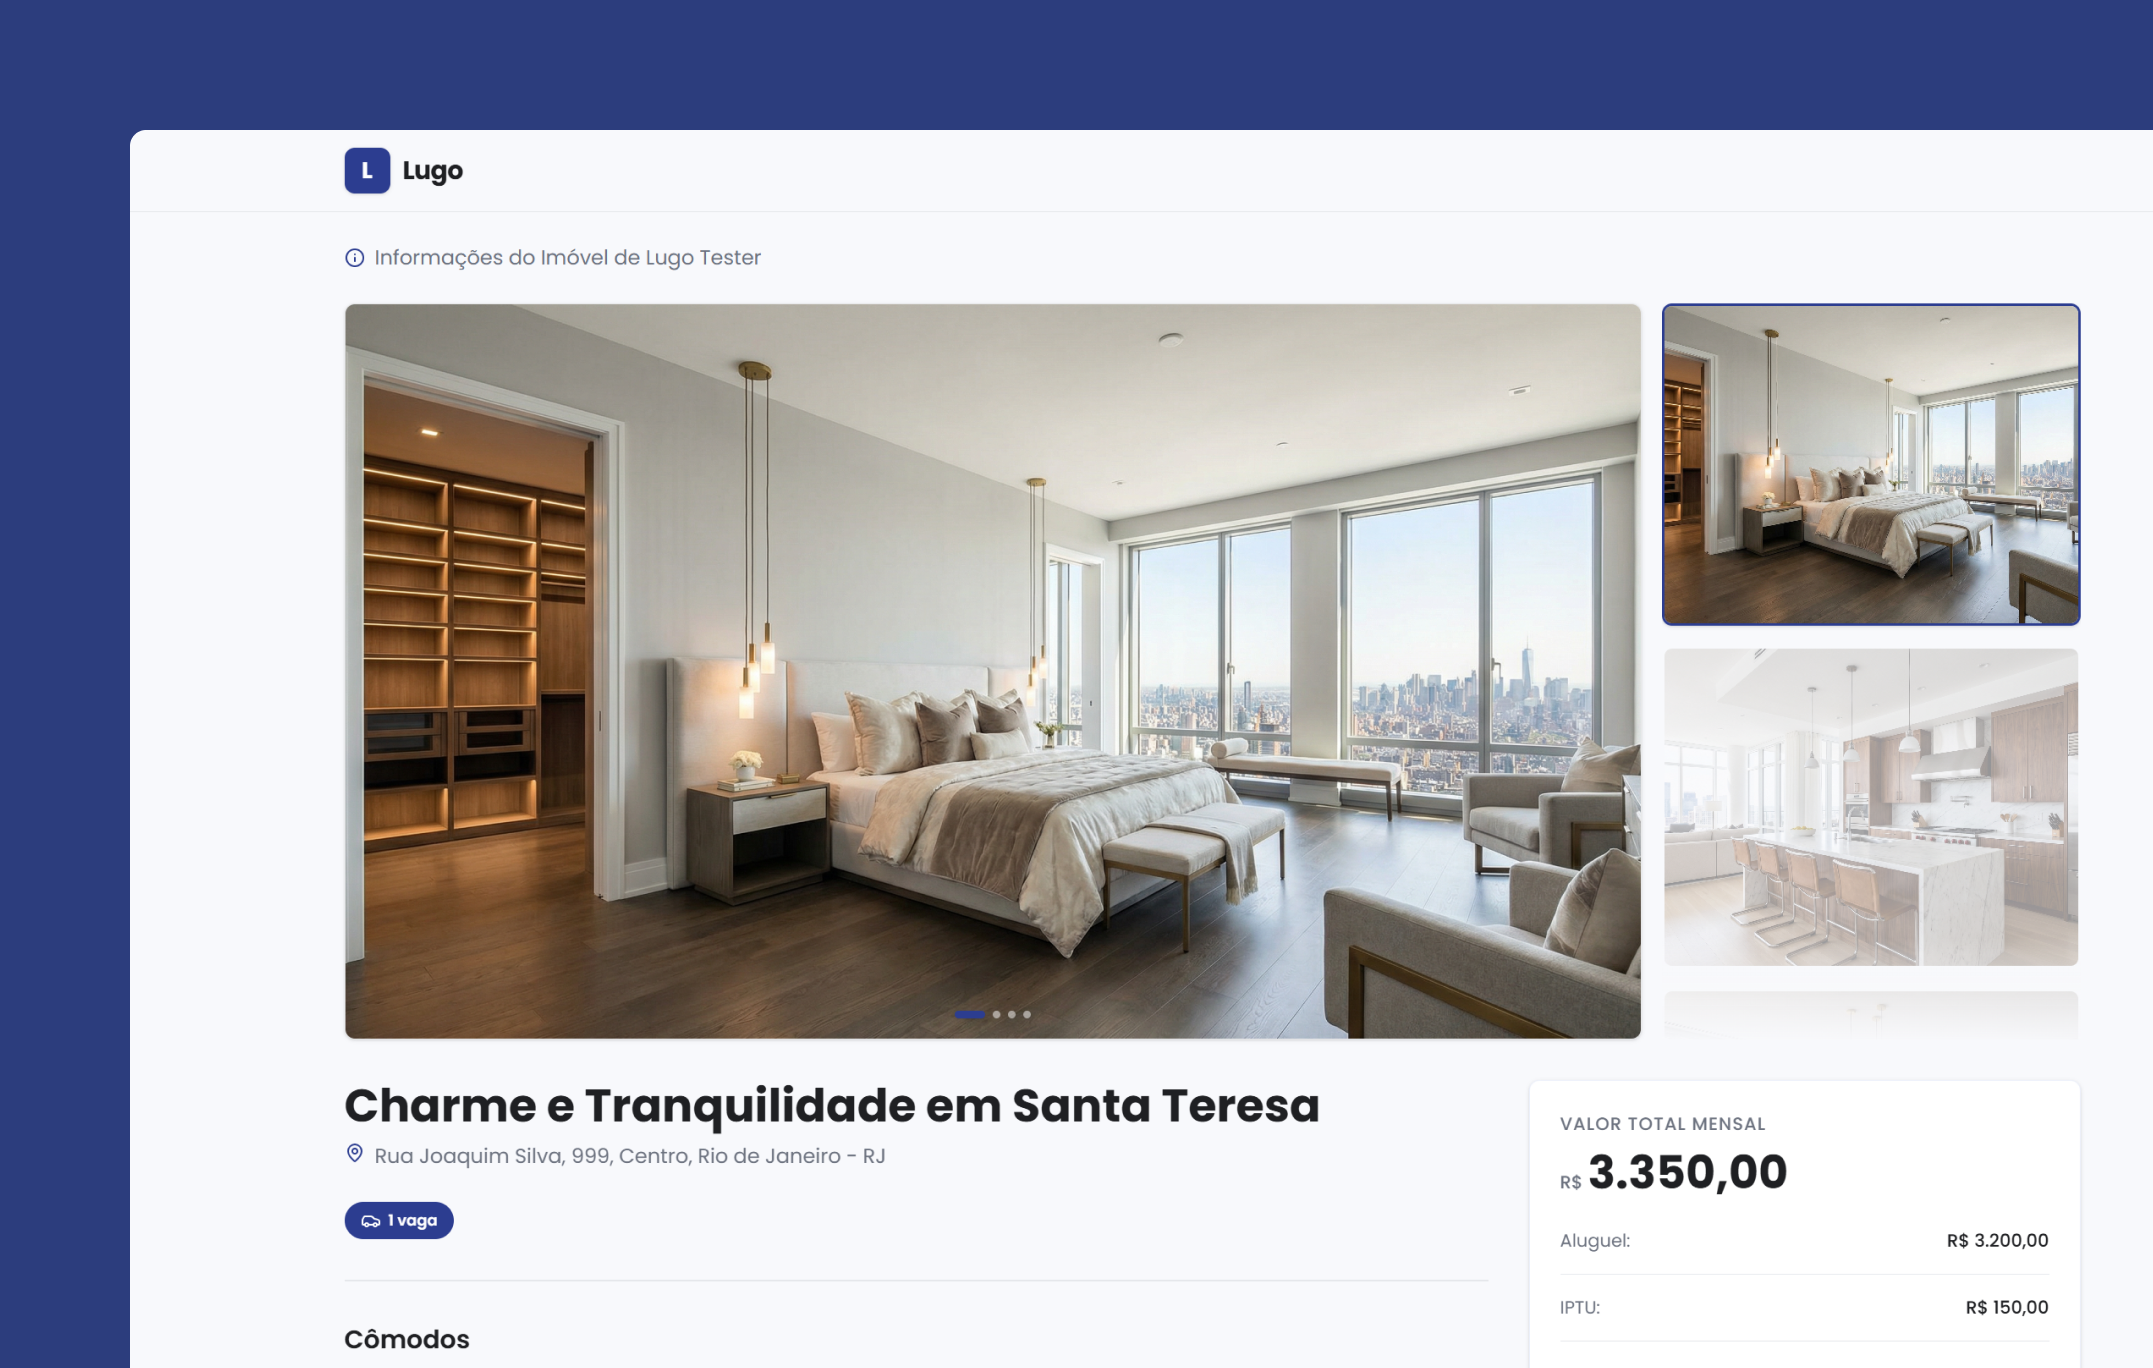
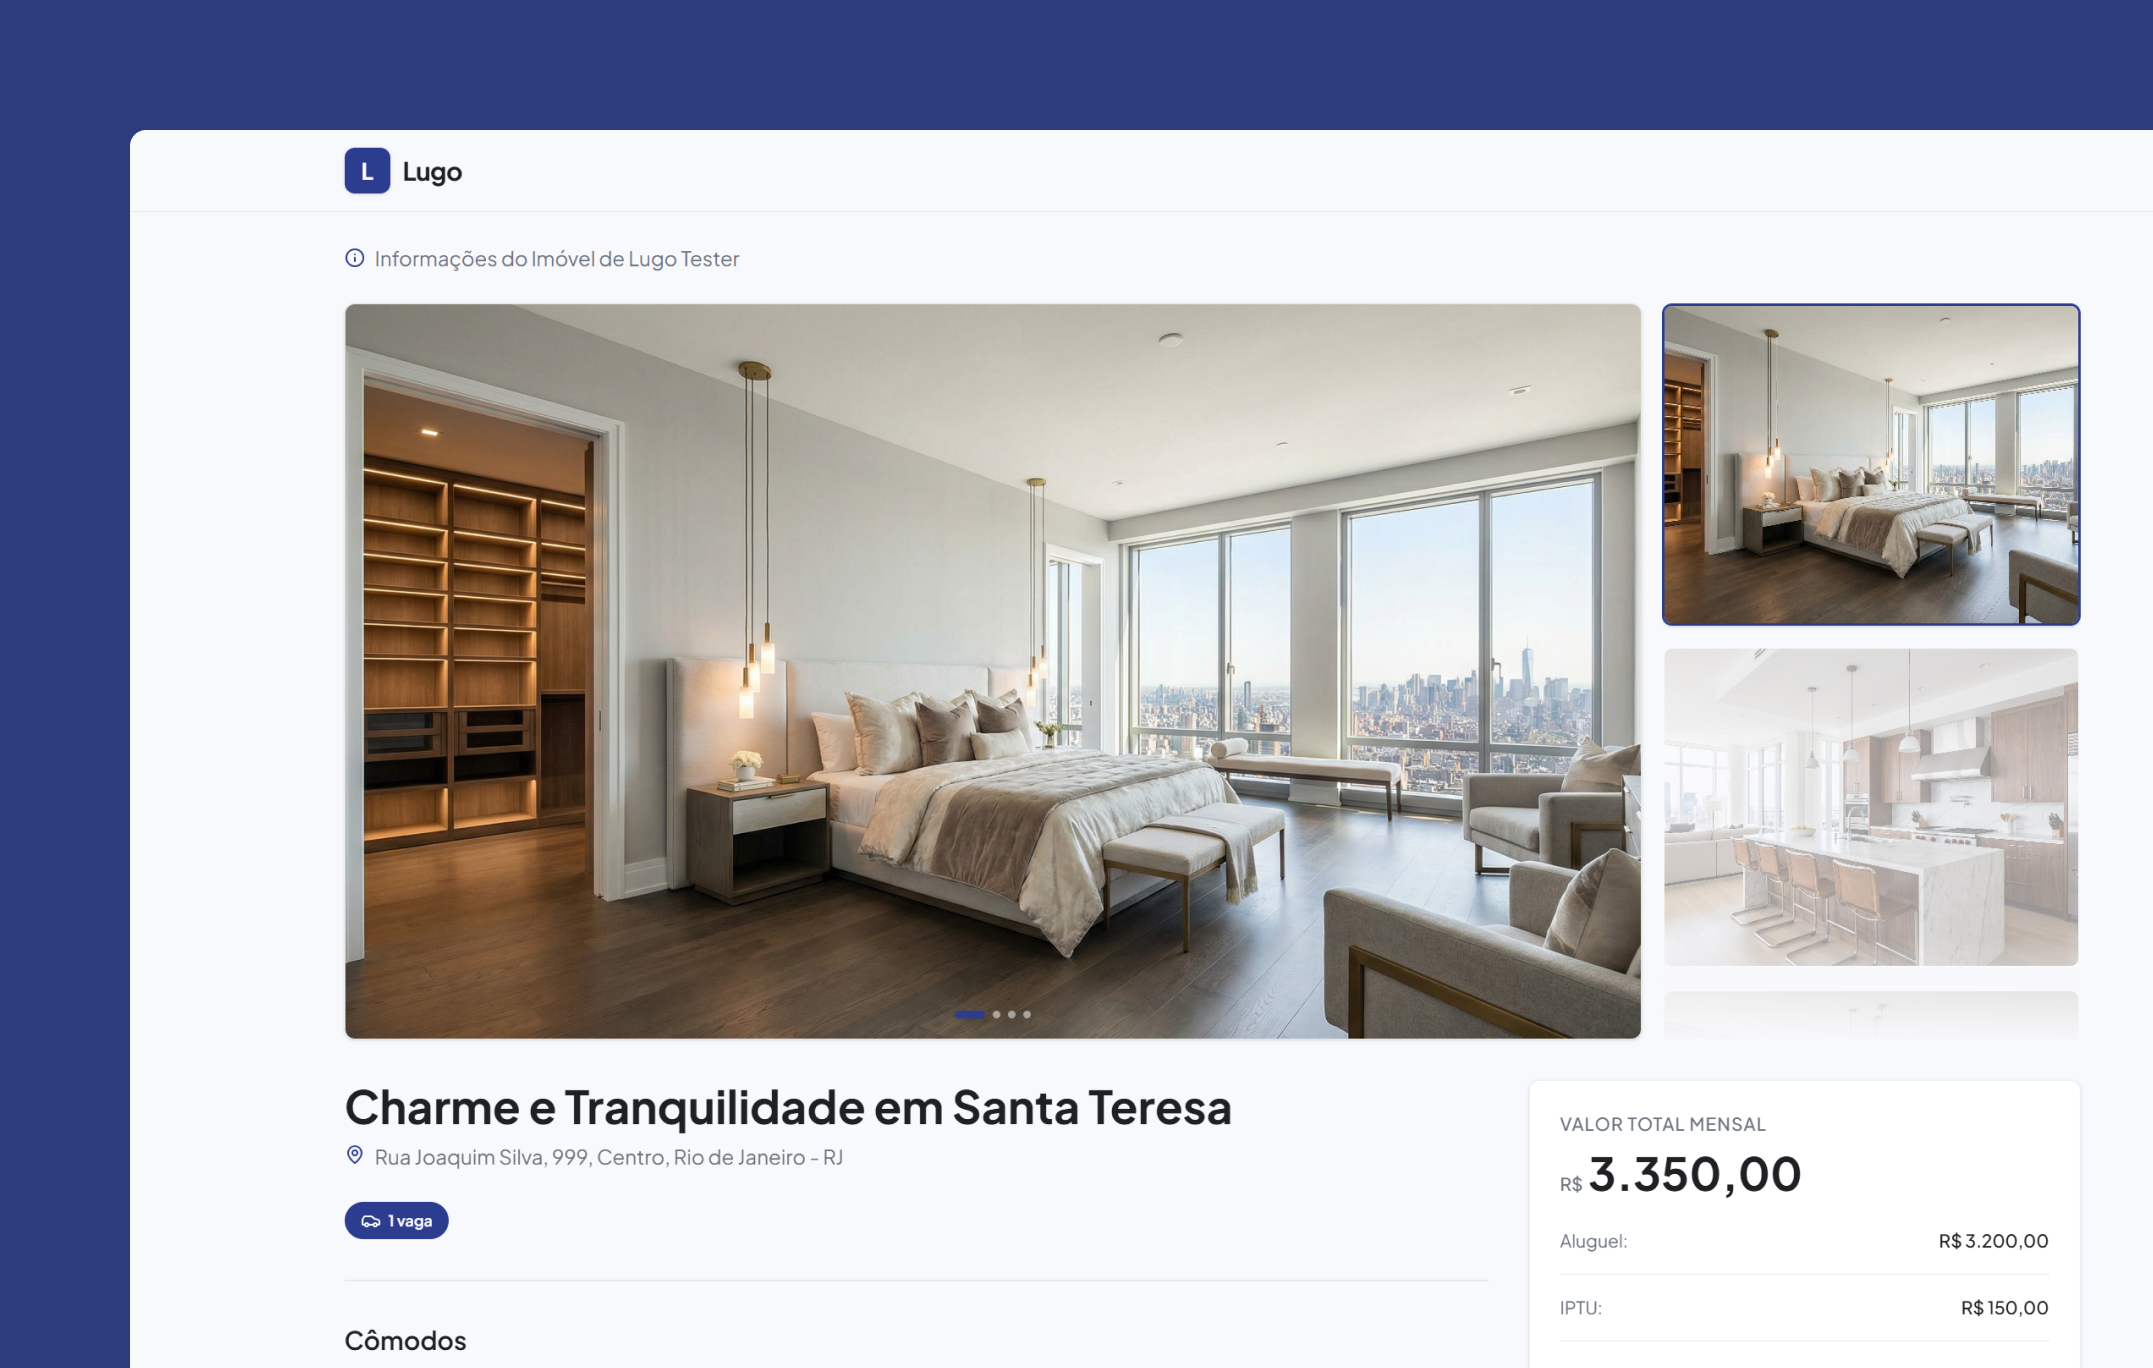
Update font to Plus Jakarta Sans

diff --git a/src/app/layout.tsx b/src/app/layout.tsx
@@ -1,12 +1,13 @@
 import type { Metadata } from "next";
-import { Poppins } from "next/font/google";
+
+import { Plus_Jakarta_Sans } from "next/font/google";
 import "./globals.css";
 import Providers from "./providers";
 import GoogleAnalytics from "@/components/GoogleAnalytics";
 
-const poppins = Poppins({
+const plusJakartaSans = Plus_Jakarta_Sans({
     subsets: ["latin"],
-    weight: ["100", "200", "300", "400", "500", "600", "700", "800", "900"],
+    weight: ["200", "300", "400", "500", "600", "700", "800"],
     variable: "--font-sans",
 });
 
@@ -77,7 +78,7 @@ export default function RootLayout({
 }>) {
     return (
         <html lang="pt-BR">
-<body className={`${poppins.variable} font-sans antialiased`}>
+<body className={`${plusJakartaSans.variable} font-sans antialiased`}>
                 <GoogleAnalytics />
                 <Providers>{children}</Providers>
             </body>
